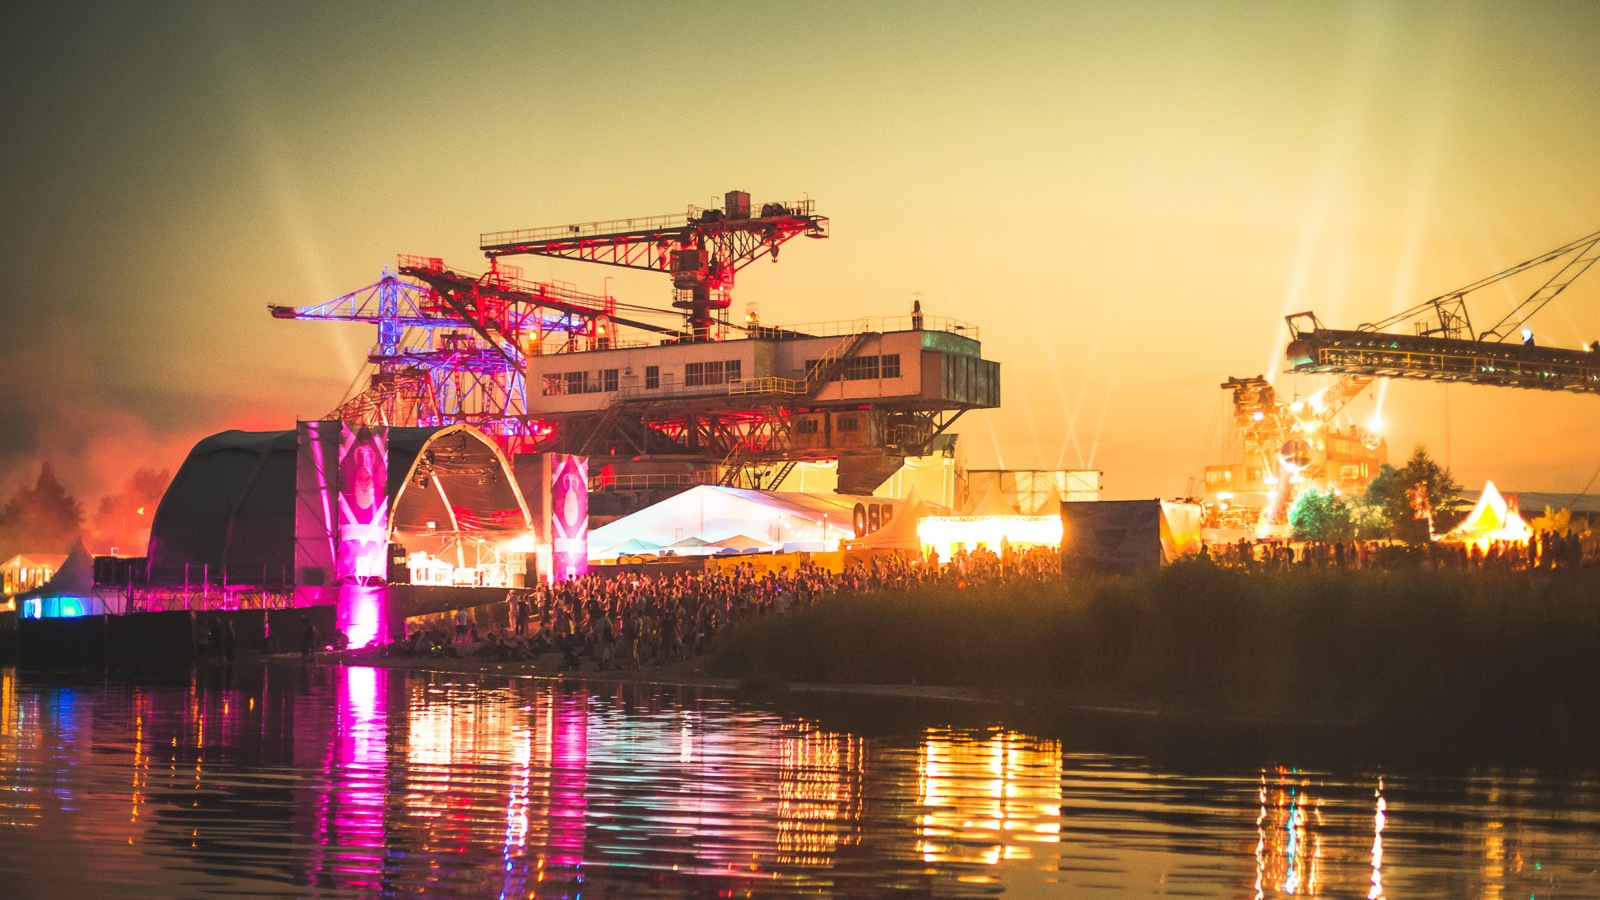
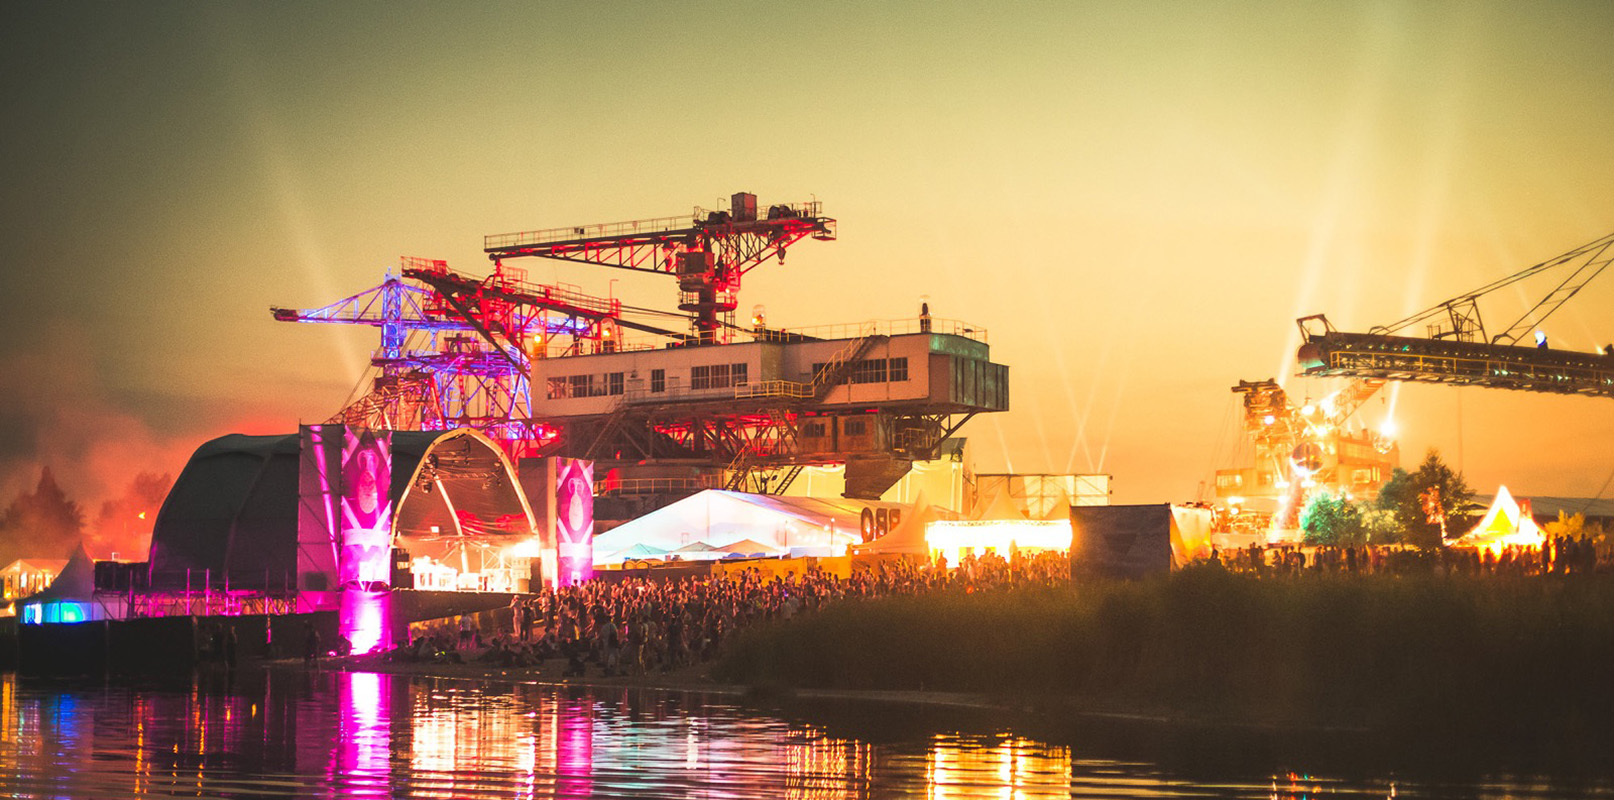
Update

diff --git a/HTML & CSS/INF103B_de_Ridder_Bryan/css/stijlblad.css b/HTML & CSS/INF103B_de_Ridder_Bryan/css/stijlblad.css
@@ -11,65 +11,72 @@ body {
 
 }
 
-/* Standard paragraph */
-p {
+/* Text and articles */
+p, article li {
     color: #333745;
     font-size: 23px;
     font-weight: 300;
     text-align: left;
     line-height: 150%;
-    margin-left: 120px;
-    margin-right: 120px;
-
+    list-style-type: circle;
 }
 
+article li {
+    float: left;
+    margin-left: 55px;
+    left: 20%;
+    right: 20%;
+}
+
+article {
+    margin-left: 120px;
+    margin-right: 120px;
+    padding-top: 50px;
+    padding-bottom: 50px;
+}
+
+span.highlight {
+    color: #77C4D3;
+}
+
+/* Headers */
 h1 {
-    margin-left: 120px;
-    margin-right: 120px;
-}
-
-/* banner and text inside the banner */
-.banner {
-    filter: brightness(65%);
-    width: 100%;
-    height: 600px;
-    background-size: cover;
-    background-position: center;
-}
-
-header {
-    text-align: center;
-
-}
-
-header h1, header p {
-    position: absolute;
-    font-size: 140px;
-    text-shadow: 0px 1px 2px #2f2f2f;
-    color: white;
-}
-
-header h1.intro {
-    top: 80px;
+    font-family: 'Amaranth', sans-serif;
     font-weight: 300;
-    font-size: 60px;
-    text-align: center;
 }
 
-header p.slogan {
-    top: 280px;
-    font-size: 30px;
-    font-weight: 300;
+h2 {
+    font-family: 'Amaranth', sans-serif;
+    font-size: 50px;
     text-align: center;
+    font-weight: 300;
+    line-height: 65px;
+    color: #77C4D3;
+}
+
+h3 {
+    font-size: 40px;
+    font-family: 'Amaranth', sans-serif;
+    text-align: center;
+    font-weight: 300;
+    color: #EA2E49;
+}
+
+h4.subtext {
+    font-size: 20px;
+    text-align: center;
+    color: grey;
+    line-height: 24px;
 }
 
 /* navbar */
-.logo, .alogo {
+li.logo, .alogo {
     float: right;
     padding: 0px;
     margin-top: 3px;
-    background-color: none;
-
+}
+a.logo:hover {
+    background-color: #333745;
 }
 
 nav ul {
@@ -95,6 +102,91 @@ nav a {
 nav li a:hover {
     background-color: #EA2E49;
     color: #DAEDE2;
+}
+
+/* banner and text inside the banner */
+.banner {
+    width: 100%; /* or whatever is required */
+    text-align: center; /* ensures the image is always in the h-middle */
+    overflow: hidden; /* hide the cropped portion */
+    filter: brightness(65%);
+}
+
+img.banner {
+    position: relative; /* allows repositioning */
+    left: 50%;
+    transform: translate(-50%, 0);
+    margin-top: -2px;
+}
+
+header {
+    text-align: center;
+    text-shadow: 0px 1px 2px #2f2f2f;
+}
+
+header h1, header p {
+    position: absolute;
+    font-size: 140px;
+    color: white;
+}
+
+header h1.intro {
+    top: 100px;
+    font-size: 60px;
+    text-align: center;
+    right: 10%;
+    left: 10%;
+}
+
+header p.slogan {
+    top: 280px;
+    font-size: 30px;
+    font-weight: normal;
+    text-align: center;
+    right: 10%;
+    left: 10%;
+}
+
+/* buttons */
+.button {
+    position: absolute;
+    top: 410px;
+    left: 30%;
+    right: 30%;
+    color: white;
+    padding: 16px 32px;
+    text-align: center;
+    display: inline-block;
+    font-size: 16px;
+    margin: 4px 2px;
+    border-radius: 10px;
+    transition-duration: 0.4s;
+    cursor: pointer;
+}
+
+.button1 {
+    color: white;
+    background-color: #EA2E49;
+    border: 2px solid #EA2E49;
+}
+
+.button1:hover {
+    background-color: white;
+    border: 2px solid white;
+    color: #EA2E49;
+}
+
+.button2 {
+    margin-left: 300px;
+    background-color: transparent;
+    color: white;
+    text-shadow: 0px 1px 1px #4b4b4b;
+    border: 2px solid #77C4D3;
+}
+
+.button2:hover {
+    background-color: #77C4D3;
+    color: white;
 }
 
 /* links */

diff --git a/HTML & CSS/INF103B_de_Ridder_Bryan/index.html b/HTML & CSS/INF103B_de_Ridder_Bryan/index.html
@@ -5,33 +5,42 @@
     <title>Tide</title>
     <link rel="stylesheet" href="css/stijlblad.css">
     <link rel="icon" href="images/icons/icon.png">
+
+    <!-- External Fonts: -->
     <link href="https://fonts.googleapis.com/css?family=Open+Sans:300,300i,400,400i,600" rel="stylesheet">
+    <link href="https://fonts.googleapis.com/css?family=Amaranth:400,700" rel="stylesheet">
 </head>
 <body>
 
 <header>
-
     <!-- Navigation menu: -->
     <nav>
         <ul>
             <li><a href="subpages/lineup.html">Line-up</a></li>
             <li><a href="subpages/tickets.html">Tickets</a></li>
-            <li><a href="subpages/praktischeinfo.html">Praktische informatie</a></li>
-            <li><a href="subpages/fotos.html">Foto’s</a></li>
-            <a class="alogo" href="./index.html">
-                <li class="logo"><img src="images/icons/logo_magenta_xs.png" alt="logo"></li>
-            </a>
+            <li><a href="subpages/praktischeinfo.html">Practical information</a></li>
+            <li><a href="subpages/fotos.html">Photos</a></li>
+            <li class="logo"><a class="alogo" href="./index.html"><img src="images/icons/logo_magenta_xs.png"
+                                                                       alt="logo"></a></li>
         </ul>
     </nav>
 
     <!-- Logo, title, Intro text and slogan -->
-    <div class="banner" style="background: url(./images/photos/party.jpg);"></div>
+    <img class="banner" src="images/photos/party.jpg" alt="crowd image">
     <h1 class="intro">Tide is your festival holiday with music drinks and more...</h1>
     <p class="slogan">Enjoy your stay at the renowned Coast of Freedom</p>
+
+    <!-- Buttons -->
+    <button class="button button1">Buy your tickets here!</button>
+    <button class="button button2">View line-up!</button>
 </header>
 
 
 <article>
+    <h2>Before you go, here are some things you might want to know...</h2>
+    <h4 class="subtext">You can <span class="highlight">thank us</span> later, or if you're interested, checkout our
+        <span class="highlight">facebook page</span>.</h4>
+    <h3>Preparing for the trip</h3>
     <p> Door het creationisme wordt veel gewerkt met het begrip ‘Baramin’. Dat klinkt heel indrukwekkend, maar wat houdt
         dat precies in. Daarnaast is de vraag, hoe zit het met de ark van Noach? ‘Van alle dieren moet je er twee in de
         ark brengen, om er voor te zorgen, dat die met jou in leven blijven. Een mannetje en wijfje moeten het zijn. Van
@@ -47,6 +56,19 @@
         wordt het begrip ‘baramin’ breder omschreven, dan het biologische soort-begrip: Op de site staat het volgende te
         lezen:
     </p>
+    <h3>Here's a nice checklist we got for you</h3>
+    <ul class="paragraphlist">
+        <li>Coffee</li>
+        <li>Tea</li>
+        <li>Milk</li>
+        <li>Coffee</li>
+        <li>Tea</li>
+        <li>Milk</li>
+        <li>Coffee</li>
+        <li>Tea</li>
+        <li>Milk</li>
+    </ul>
+
 
 </article>
 
